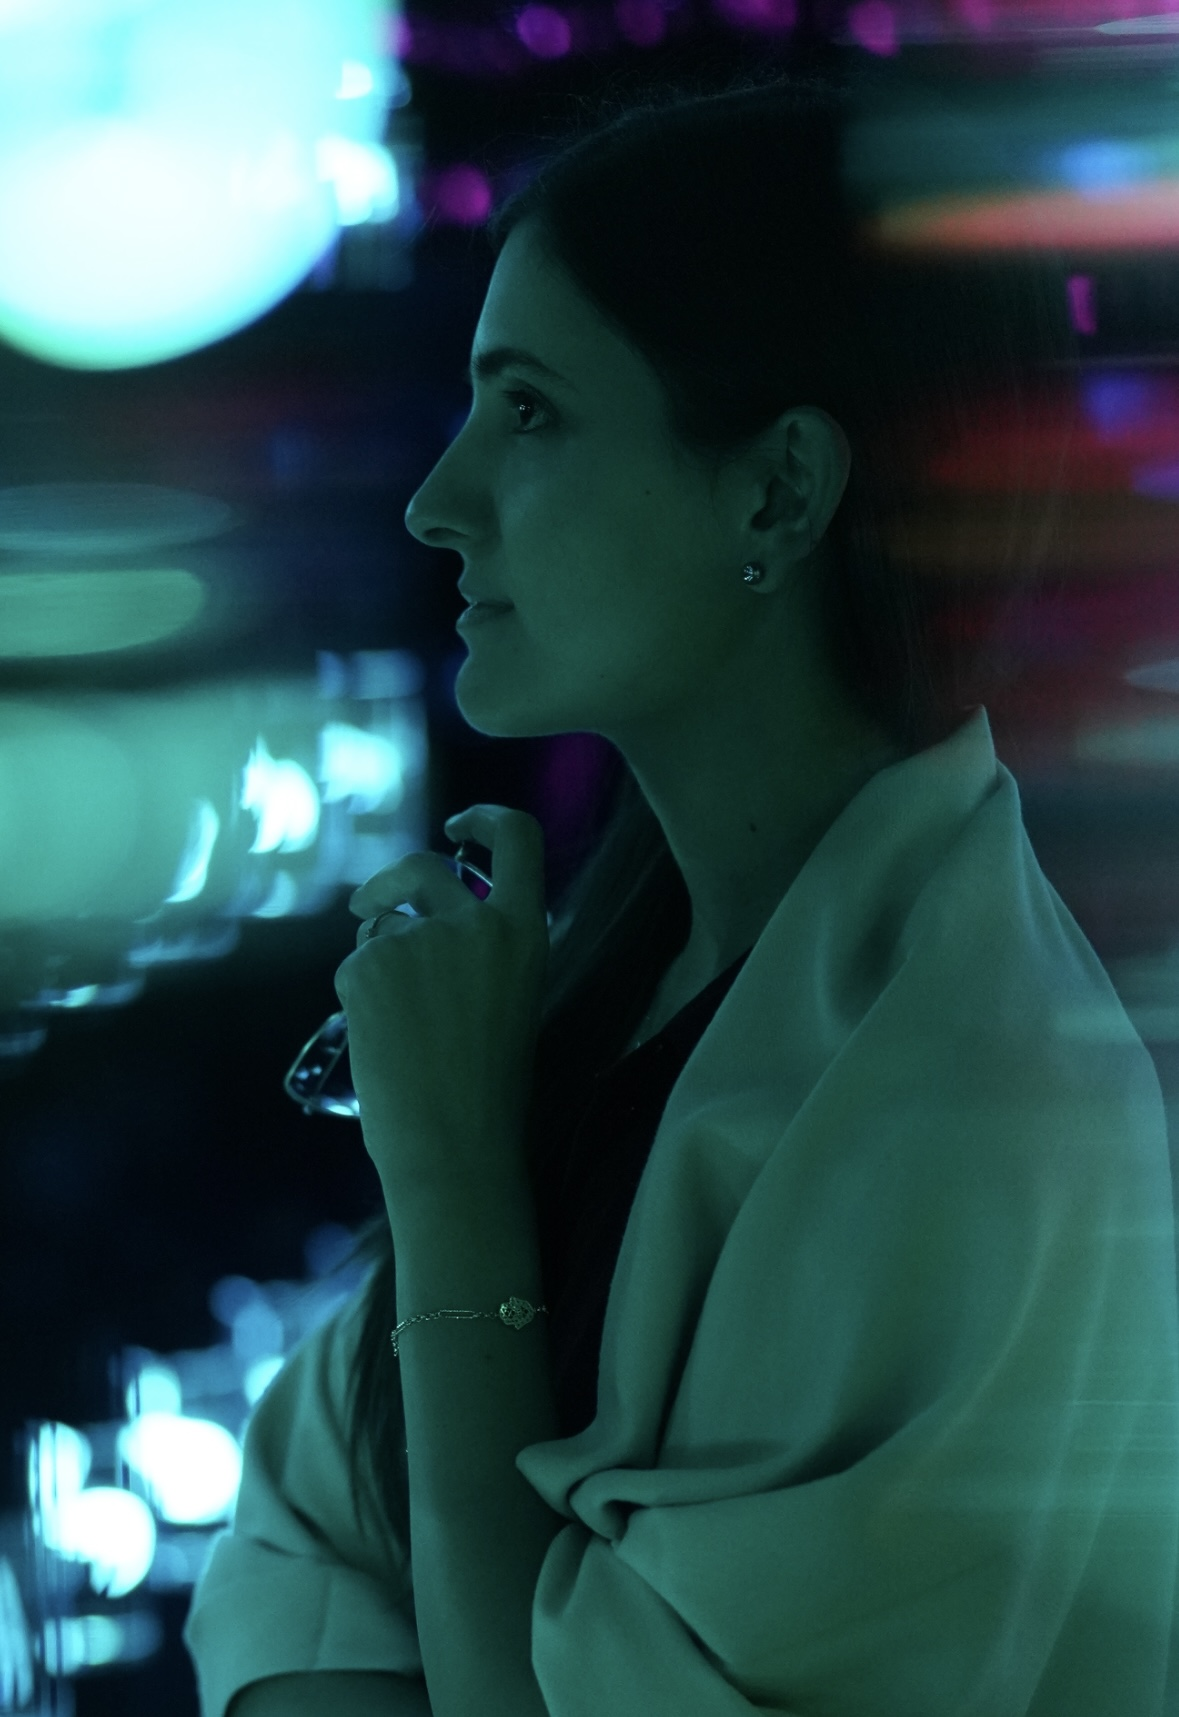
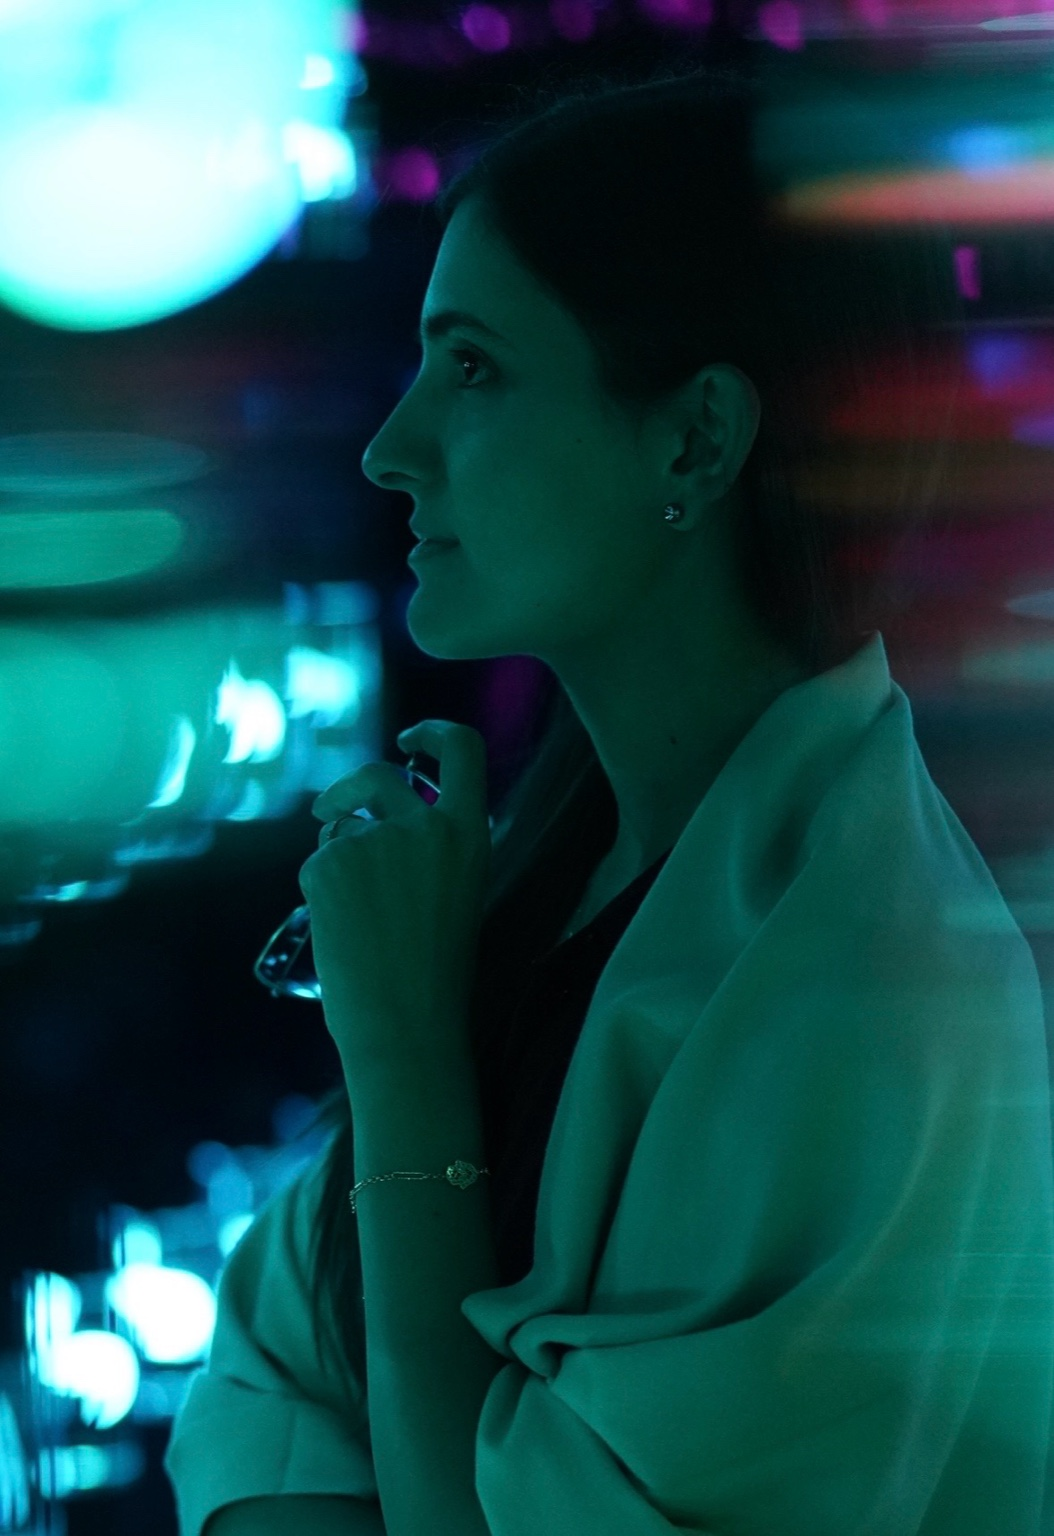
Add files via upload

diff --git a/index.html b/index.html
@@ -8,19 +8,48 @@
     :root{ --teal:#007c91; --teal-dark:#005f6b; --ink:#333; --muted:#e0f4f6; }
     *{ box-sizing:border-box; }
     body{ font-family: system-ui,-apple-system,"Segoe UI",Roboto,Arial,sans-serif; margin:0; color:var(--ink); background:#fff; scroll-behavior:smooth; }
+
     header{ background:var(--teal); color:#fff; text-align:center; padding:2.25rem 1rem 1.75rem; }
-    .avatar{ width:164px; height:164px; border-radius:50%; object-fit:cover; object-position: 52% 42%; border:4px solid #fff; box-shadow:0 4px 14px rgba(0,0,0,.18); }
+    .avatar{
+      width:164px; height:164px; border-radius:50%;
+      object-fit:cover;
+      object-position: 50% 35%;
+      border:4px solid #fff; box-shadow:0 4px 14px rgba(0,0,0,.18);
+    }
     header h1{ margin:1rem 0 .35rem; font-size:2rem; line-height:1.1; }
     header p{ margin:.35rem 0; font-size:1.05rem; }
     header a{ color:#fff; text-underline-offset:3px; }
+
     nav{ background:var(--teal-dark); display:flex; justify-content:center; gap:1.2rem; padding:.6rem .8rem; flex-wrap:wrap; }
     nav a{ color:#fff; text-decoration:none; font-weight:600; padding:.25rem .4rem; }
     nav a:hover{ text-decoration:underline; }
 
     section{ max-width:920px; margin:auto; padding:2rem 1rem; }
     h2{ color:var(--teal); margin:0 0 1rem; padding-bottom:.5rem; border-bottom:2px solid var(--muted); }
-    .quote{ text-align:center; font-style:italic; font-size:1.12rem; line-height:1.65; color:#004d55; margin:2rem auto 0; max-width:720px; }
-    .quote span{ display:block; margin-top:.55rem; font-weight:600; color:#006b75; }
+
+    .quote{
+      position:relative;
+      text-align:center;
+      font-style:italic;
+      font-size:clamp(1.1rem, 2.4vw + .4rem, 1.6rem);
+      line-height:1.7;
+      color:#004d55;
+      margin:2rem auto 0;
+      max-width:720px;
+      padding:1.2rem 1.2rem 1.4rem;
+    }
+    .quote::before,
+    .quote::after{
+      position:absolute; width:28px; height:28px; line-height:28px;
+      color:var(--teal);
+      font-size:2rem; font-weight:700; font-style:normal;
+    }
+    .quote::before{ content:"“"; left:-.2rem; top:-.2rem; }
+    .quote::after{ content:"”"; right:-.2rem; bottom:-.2rem; }
+    .quote span{
+      display:block; margin-top:.7rem; font-weight:600; color:#006b75; font-style:normal;
+      font-size:clamp(0.95rem, 1.2vw + .5rem, 1.05rem);
+    }
 
     .timeline{ border-left:3px solid var(--teal); padding-left:1.2rem; }
     .timeline-item{ margin:0 0 1.4rem; }
@@ -59,95 +88,12 @@
 <section id="about">
   <h2>About Me</h2>
   <p>Strategic and consumer-obsessed Brand Manager with 5+ years of experience launching and scaling global brands at FMCG leaders like Beiersdorf and Danone. Passionate about brand positioning, data-driven insights, and full-funnel go-to-market strategies. Recently up-skilled in Product Marketing for tech companies, I’m ready to bring my expertise to product-led environments requiring both creativity and commercial acumen.</p>
-  <blockquote class="quote">
-    “The future belongs to those who can imagine it, design it, and execute it.”
-    <span>– H.H. Sheikh Mohammed Bin Rashid Al Maktoum</span>
-  </blockquote>
-</section>
 
-<section id="experience">
-  <h2>Experience</h2>
-  <div class="timeline">
-    <div class="timeline-item">
-      <h3>Brand Manager – Beiersdorf</h3>
-      <span>2021–Present · Eastern Europe / Singapore</span>
-      <ul>
-        <li>Led GTM strategy for NIVEA launches, adapting global strategies to local markets.</li>
-        <li>Managed 360° campaigns across digital, OOH, in-store, and PR.</li>
-        <li>Partnered with influencers, CSR, and social listening programs to enhance brand reputation.</li>
-      </ul>
-    </div>
-    <div class="timeline-item">
-      <h3>Jr Brand Manager – Danone</h3>
-      <span>2019–2021 · Eastern Europe</span>
-      <ul>
-        <li>Owned health-focused brand portfolio, aligning with ESG and consumer trends.</li>
-        <li>Co-led innovation launches achieving double-digit YoY growth.</li>
-      </ul>
-    </div>
-    <div class="timeline-item">
-      <h3>Management Trainee – Danone</h3>
-      <span>2018–2019 · Eastern Europe</span>
-    </div>
-    <div class="timeline-item">
-      <h3>Management Trainee – World Health Organisation</h3>
-      <span>2018 · Geneva, Switzerland</span>
-      <ul><li>Coordinated global NCD research and optimised digital healthcare toolkits.</li></ul>
-    </div>
+  <div class="quote">
+    The future belongs to those who can imagine it, design it, and execute it.
+    <span>— H.H. Sheikh Mohammed Bin Rashid Al Maktoum</span>
   </div>
 </section>
-
-<section id="education">
-  <h2>Education</h2>
-  <ul>
-    <li>MSc Clinical & Public Health Nutrition – University College London (2018)</li>
-    <li>BS Cognitive Science & Psychology – New Bulgarian University (2017)</li>
-    <li>Health Coach – Institute for Integrative Nutrition, New York (2015)</li>
-  </ul>
-</section>
-
-<section id="awards">
-  <h2>Awards & Achievements</h2>
-  <ul>
-    <li>Winner – Marketing Baby & Mother Awards, Bulgaria (2022)</li>
-    <li>Guest Lecturer – Sofia University (2021)</li>
-    <li>Mentor – Advertising Academy, New Bulgarian University (2021)</li>
-    <li>VIP Member – Food Matters Live, London (2018–2019)</li>
-  </ul>
-</section>
-
-<section id="skills">
-  <h2>Skills & Languages</h2>
-  <div class="chips">
-    <span class="chip">Brand Strategy</span>
-    <span class="chip">GTM</span>
-    <span class="chip">360° Campaigns</span>
-    <span class="chip">Influencer Marketing</span>
-    <span class="chip">Precision Marketing</span>
-  </div>
-  <h3 style="margin-top:1.25rem;color:#005f6b">Languages</h3>
-  <div class="chips">
-    <span class="chip">Bulgarian (Native)</span>
-    <span class="chip">English (C1)</span>
-    <span class="chip">Spanish (C1)</span>
-    <span class="chip">Russian (C1)</span>
-    <span class="chip">French (B2)</span>
-  </div>
-</section>
-
-<section id="contact">
-  <h2>Contact Me</h2>
-  <form action="https://formspree.io/f/yourformid" method="POST">
-    <input type="text" name="name" placeholder="Your name" required />
-    <input type="email" name="_replyto" placeholder="Your email" required />
-    <textarea name="message" rows="5" placeholder="Your message"></textarea>
-    <button type="submit">Send</button>
-  </form>
-</section>
-
-<footer>
-  © 2025 Yoanna Tomova-El Khatib — All rights reserved.
-</footer>
 
 </body>
 </html>
